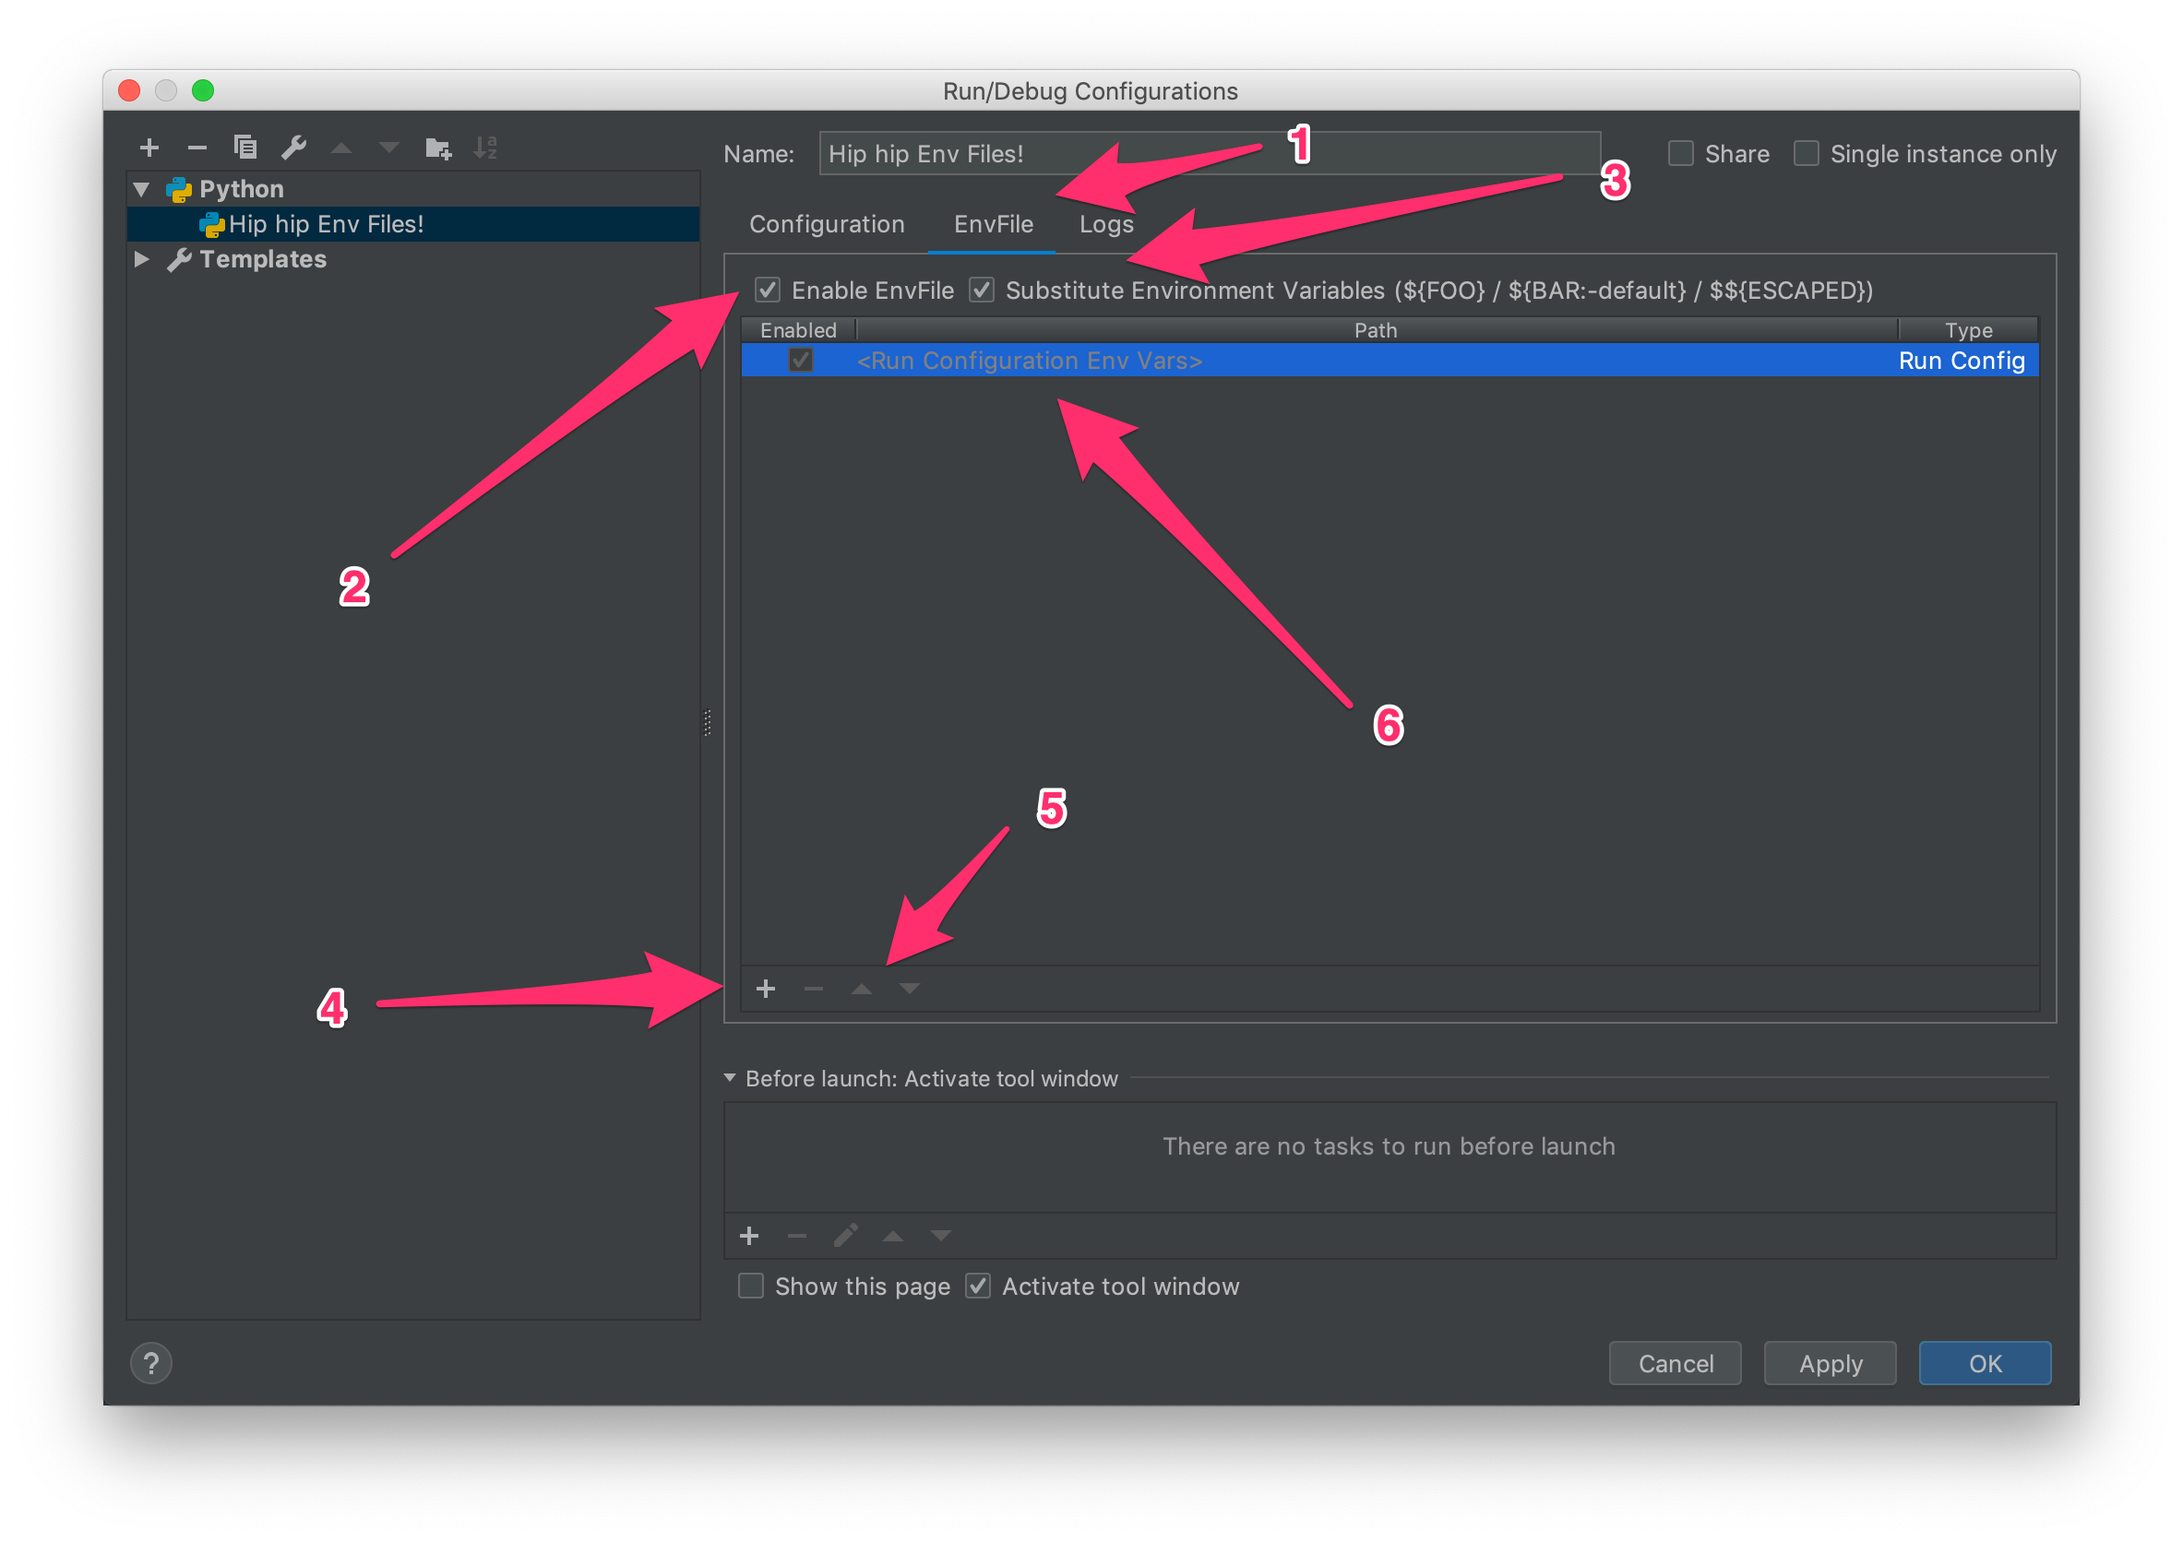
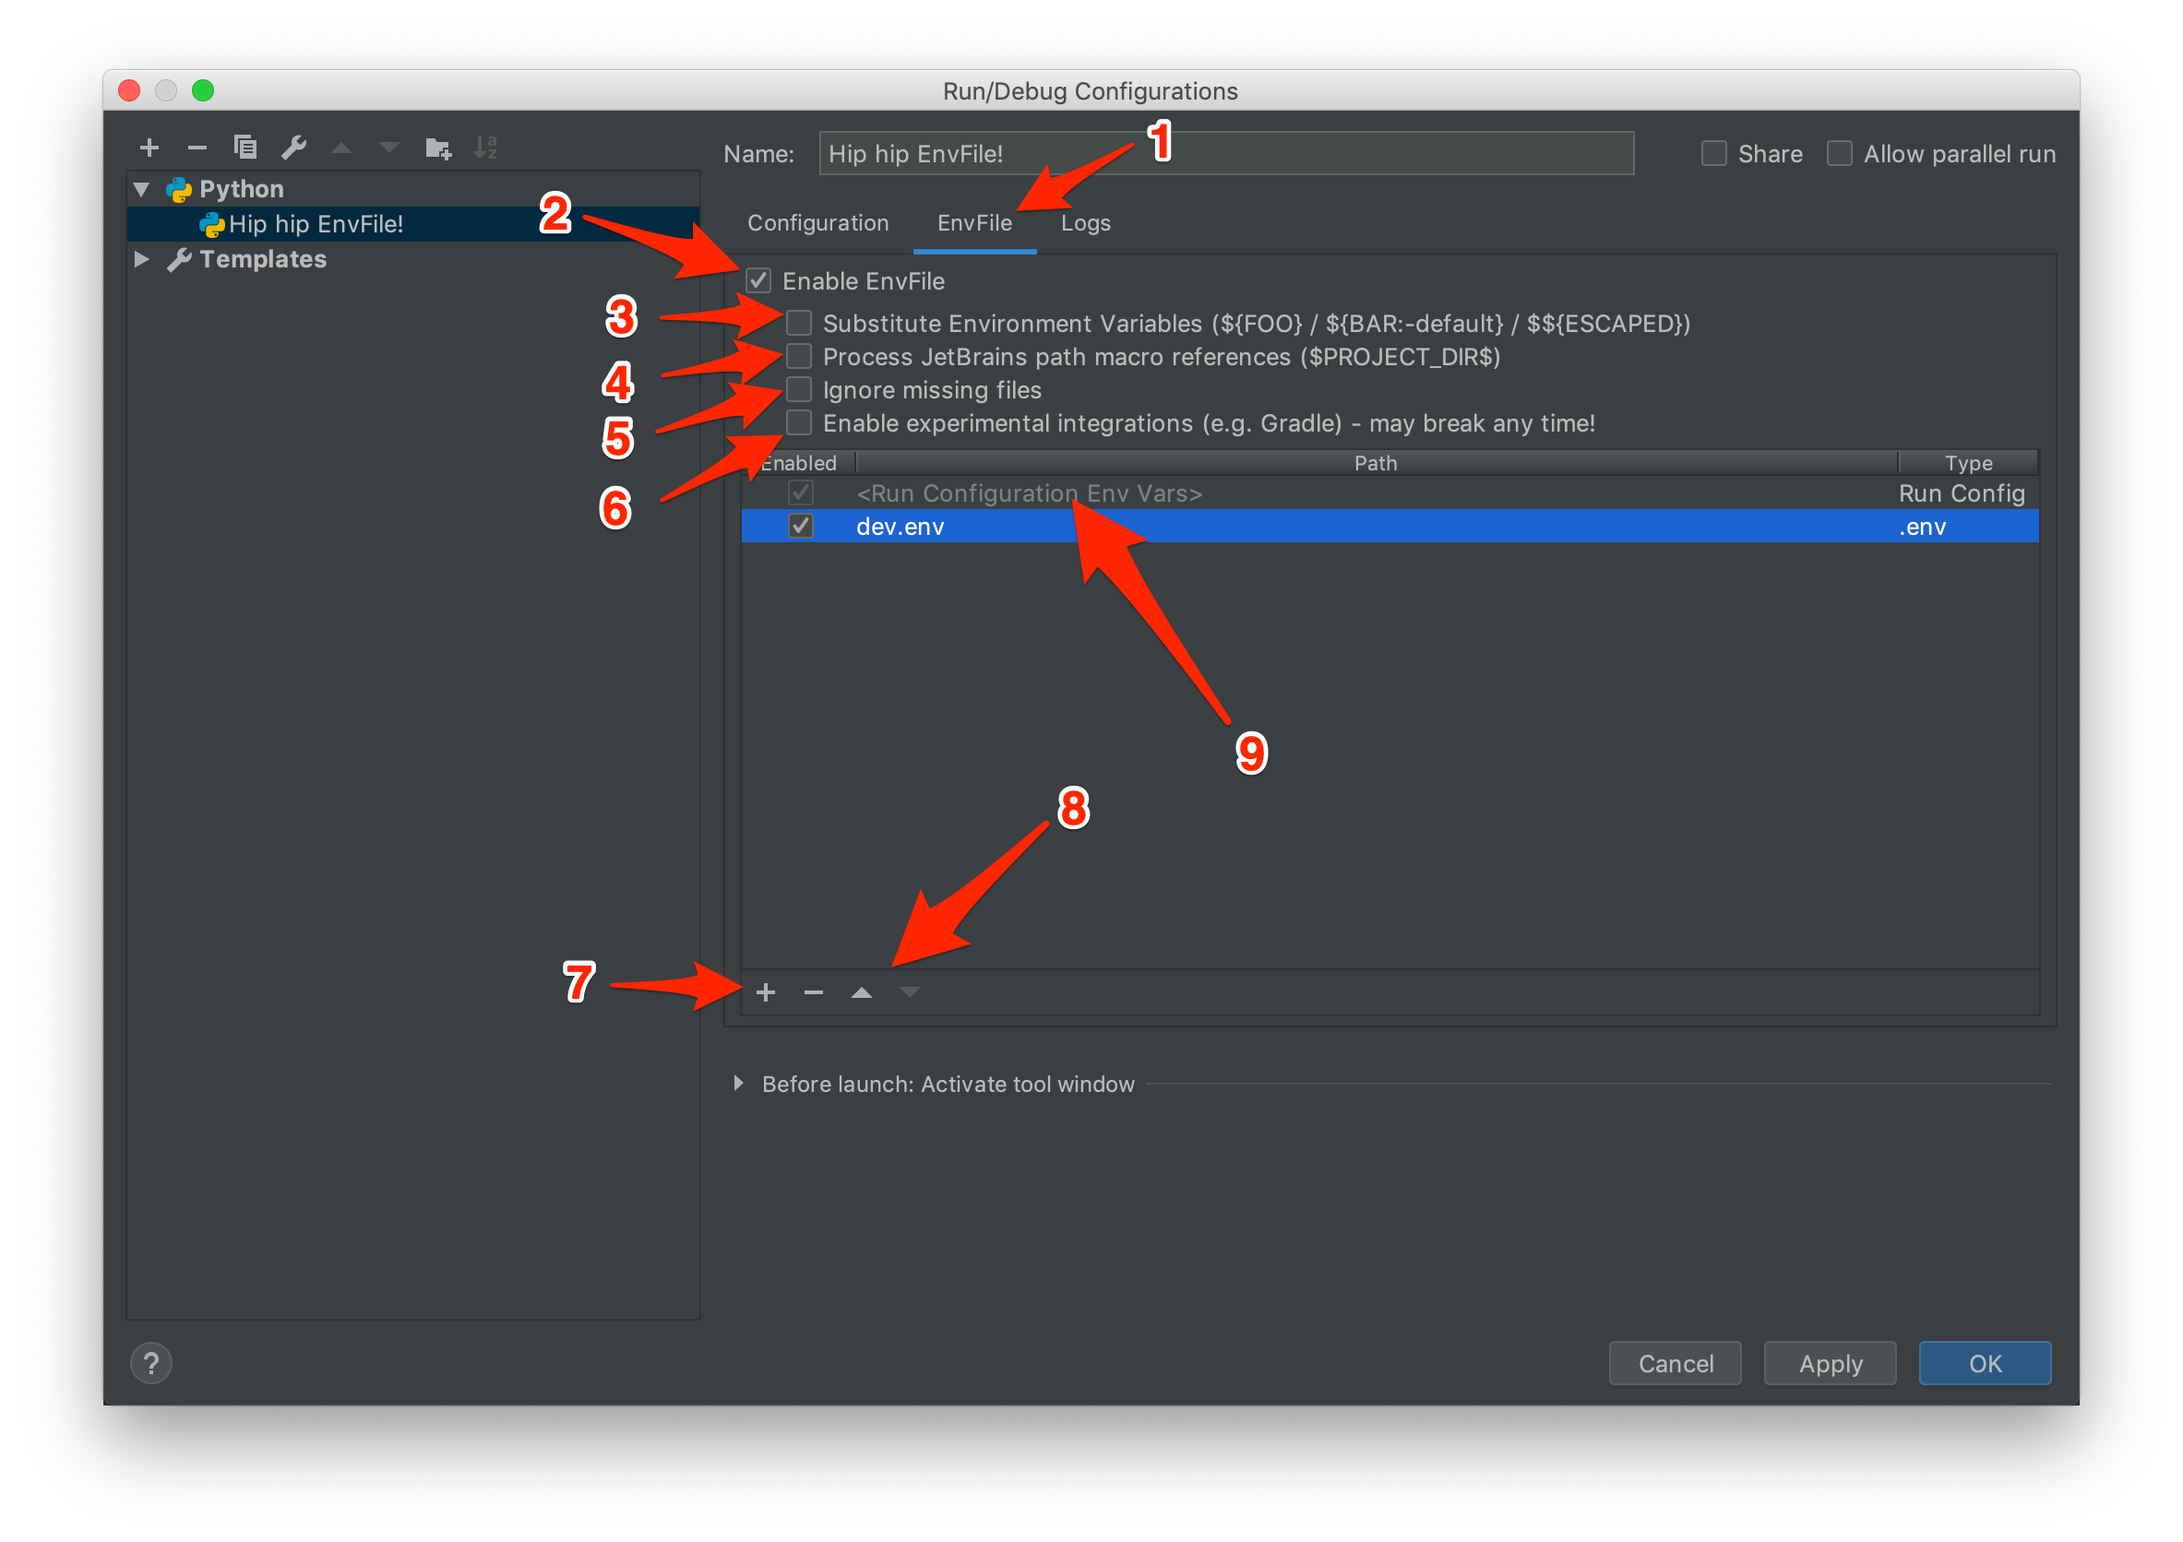
Experimental integration for external system run configurations
Fixes #38

diff --git a/modules/platform/src/main/java/net/ashald/envfile/platform/ui/EnvFileConfigurationEditor.java b/modules/platform/src/main/java/net/ashald/envfile/platform/ui/EnvFileConfigurationEditor.java
@@ -35,6 +35,7 @@ public class EnvFileConfigurationEditor<T extends RunConfigurationBase> extends 
     @NonNls private static final String FIELD_SUBSTITUTE_VARS = "IS_SUBST";
     @NonNls private static final String FIELD_PATH_MACRO_VARS = "IS_PATH_MACRO_SUPPORTED";
     @NonNls private static final String FIELD_IGNORE_MISSING = "IS_IGNORE_MISSING_FILES";
+    @NonNls private static final String FIELD_EXPERIMENTAL_INTEGRATIONS = "IS_ENABLE_EXPERIMENTAL_INTEGRATIONS";
     @NonNls private static final String FIELD_PATH = "PATH";
     @NonNls private static final String FIELD_PARSER = "PARSER";
 
@@ -80,6 +81,9 @@ public class EnvFileConfigurationEditor<T extends RunConfigurationBase> extends 
         String ignoreMissingStr = JDOMExternalizerUtil.readField(element, FIELD_IGNORE_MISSING, "false");
         boolean ignoreMissing = Boolean.parseBoolean(ignoreMissingStr);
 
+        String experimentalIntegrationsStr = JDOMExternalizerUtil.readField(element, FIELD_EXPERIMENTAL_INTEGRATIONS, "false");
+        boolean experimentalIntegrations = Boolean.parseBoolean(experimentalIntegrationsStr);
+
         List<EnvFileEntry> entries = new ArrayList<EnvFileEntry>();
 
         final Element entriesElement = element.getChild(ELEMENT_ENTRY_LIST);
@@ -110,7 +114,7 @@ public class EnvFileConfigurationEditor<T extends RunConfigurationBase> extends 
         }
         // For a while to migrate old users - end
 
-        EnvFileSettings state = new EnvFileSettings(isEnabled, envVarsSubstEnabled, pathMacroSupported, entries, ignoreMissing);
+        EnvFileSettings state = new EnvFileSettings(isEnabled, envVarsSubstEnabled, pathMacroSupported, entries, ignoreMissing, experimentalIntegrations);
         configuration.putUserData(USER_DATA_KEY, state);
     }
 
@@ -121,6 +125,7 @@ public class EnvFileConfigurationEditor<T extends RunConfigurationBase> extends 
             JDOMExternalizerUtil.writeField(element, FIELD_SUBSTITUTE_VARS, Boolean.toString(state.isSubstituteEnvVarsEnabled()));
             JDOMExternalizerUtil.writeField(element, FIELD_PATH_MACRO_VARS, Boolean.toString(state.isPathMacroSupported()));
             JDOMExternalizerUtil.writeField(element, FIELD_IGNORE_MISSING, Boolean.toString(state.isIgnoreMissing()));
+            JDOMExternalizerUtil.writeField(element, FIELD_EXPERIMENTAL_INTEGRATIONS, Boolean.toString(state.isEnableExperimentalIntegrations()));
 
             final Element entriesElement = new Element(ELEMENT_ENTRY_LIST);
             for (EnvFileEntry entry : state.getEntries()) {
@@ -174,6 +179,11 @@ public class EnvFileConfigurationEditor<T extends RunConfigurationBase> extends 
                 }
             }
         }
+    }
+
+    public static boolean isEnableExperimentalIntegrations(@NotNull RunConfigurationBase configuration) {
+        EnvFileSettings state = configuration.getUserData(USER_DATA_KEY);
+        return state != null && state.isEnableExperimentalIntegrations();
     }
 
     @NotNull

diff --git a/modules/platform/src/main/java/net/ashald/envfile/platform/ui/EnvFileConfigurationPanel.java b/modules/platform/src/main/java/net/ashald/envfile/platform/ui/EnvFileConfigurationPanel.java
@@ -44,6 +44,7 @@ class EnvFileConfigurationPanel<T extends RunConfigurationBase> extends JPanel {
     private final JCheckBox substituteEnvVarsCheckBox;
     private final JCheckBox supportPathMacroCheckBox;
     private final JCheckBox ignoreMissingCheckBox;
+    private final JCheckBox experimentalIntegrationsCheckBox;
     private final ListTableModel<EnvFileEntry> envFilesModel;
     private final TableView<EnvFileEntry> envFilesTable;
 
@@ -86,6 +87,7 @@ class EnvFileConfigurationPanel<T extends RunConfigurationBase> extends JPanel {
         substituteEnvVarsCheckBox.addActionListener(e -> envFilesModel.getItems().forEach(envFileEntry -> envFileEntry.setSubstitutionEnabled(substituteEnvVarsCheckBox.isSelected())));
         supportPathMacroCheckBox = new JCheckBox("Process JetBrains path macro references ($PROJECT_DIR$)");
         ignoreMissingCheckBox = new JCheckBox("Ignore missing files");
+        experimentalIntegrationsCheckBox = new JCheckBox("Enable experimental integrations (e.g. Gradle) - may break any time!");
 
         // TODO: come up with a generic approach for this
         envFilesModel.addRow(new EnvFileEntry(runConfig, "runconfig", null, true, substituteEnvVarsCheckBox.isSelected()));
@@ -131,6 +133,7 @@ class EnvFileConfigurationPanel<T extends RunConfigurationBase> extends JPanel {
         optionsPanel.add(substituteEnvVarsCheckBox);
         optionsPanel.add(supportPathMacroCheckBox);
         optionsPanel.add(ignoreMissingCheckBox);
+        optionsPanel.add(experimentalIntegrationsCheckBox);
 
         // Compose UI
         JPanel checkboxPanel = new JPanel();
@@ -250,7 +253,8 @@ class EnvFileConfigurationPanel<T extends RunConfigurationBase> extends JPanel {
                 substituteEnvVarsCheckBox.isSelected(),
                 supportPathMacroCheckBox.isSelected(),
                 envFilesModel.getItems(),
-                ignoreMissingCheckBox.isSelected()
+                ignoreMissingCheckBox.isSelected(),
+                experimentalIntegrationsCheckBox.isSelected()
         );
     }
 
@@ -259,11 +263,13 @@ class EnvFileConfigurationPanel<T extends RunConfigurationBase> extends JPanel {
         substituteEnvVarsCheckBox.setSelected(state.isSubstituteEnvVarsEnabled());
         supportPathMacroCheckBox.setSelected(state.isPathMacroSupported());
         ignoreMissingCheckBox.setSelected(state.isIgnoreMissing());
+        experimentalIntegrationsCheckBox.setSelected(state.isEnableExperimentalIntegrations());
 
         envFilesTable.setEnabled(state.isEnabled());
         substituteEnvVarsCheckBox.setEnabled(state.isEnabled());
         supportPathMacroCheckBox.setEnabled(state.isEnabled());
         ignoreMissingCheckBox.setEnabled(state.isEnabled());
+        experimentalIntegrationsCheckBox.setEnabled(state.isEnabled());
 
         envFilesModel.setItems(new ArrayList<>(state.getEntries()));
     }

diff --git a/modules/products/idea/src/main/java/net/ashald/envfile/products/idea/IdeaRunConfigurationExtension.java b/modules/products/idea/src/main/java/net/ashald/envfile/products/idea/IdeaRunConfigurationExtension.java
@@ -6,11 +6,12 @@ import com.intellij.execution.configurations.GeneralCommandLine;
 import com.intellij.execution.configurations.JavaParameters;
 import com.intellij.execution.configurations.RunConfigurationBase;
 import com.intellij.execution.configurations.RunnerSettings;
+import com.intellij.openapi.externalSystem.service.execution.ExternalSystemRunConfiguration;
 import com.intellij.openapi.options.SettingsEditor;
-import com.intellij.openapi.projectRoots.JdkUtil;
 import com.intellij.openapi.util.InvalidDataException;
 import com.intellij.openapi.util.WriteExternalException;
 import net.ashald.envfile.platform.ui.EnvFileConfigurationEditor;
+import net.ashald.envfile.utils.ReadOnceMap;
 import org.jdom.Element;
 import org.jetbrains.annotations.NotNull;
 import org.jetbrains.annotations.Nullable;
@@ -72,6 +73,17 @@ public class IdeaRunConfigurationExtension extends RunConfigurationExtension {
         // there is a chance that env is an immutable map,
         // that is why it is safer to replace it instead of updating it
         params.setEnv(newEnv);
+
+        // The code below works based on assumptions about internal implementation of
+        // ExternalSystemExecuteTaskTask and ExternalSystemExecutionSettings and therefore may break any time may it change
+        // It seems to be the only way to get things working for run configurations such as Gradle, at least for now
+        if (EnvFileConfigurationEditor.isEnableExperimentalIntegrations(configuration)) {
+            if (configuration instanceof ExternalSystemRunConfiguration) {
+                ExternalSystemRunConfiguration ext = (ExternalSystemRunConfiguration) configuration;
+
+                ext.getSettings().setEnv(new ReadOnceMap<>(newEnv, ext.getSettings().getEnv()));
+            }
+        }
     }
 
     //

diff --git a/modules/platform/src/main/java/net/ashald/envfile/platform/EnvFileSettings.java b/modules/platform/src/main/java/net/ashald/envfile/platform/EnvFileSettings.java
@@ -9,14 +9,23 @@ public class EnvFileSettings {
     private final boolean envVarsSubstitutionEnabled;
     private final boolean pathMacroSupported;
     private final boolean ignoreMissing;
+    private final boolean enableExperimentalIntegrations;
     private final List<EnvFileEntry> entries;
 
-    public EnvFileSettings(boolean isEnabled, boolean substituteVars, boolean pathMacroSupported, List<EnvFileEntry> envFileEntries, boolean ignoreMissing) {
+    public EnvFileSettings(
+            boolean isEnabled,
+            boolean substituteVars,
+            boolean pathMacroSupported,
+            List<EnvFileEntry> envFileEntries,
+            boolean ignoreMissing,
+            boolean experimentalInegrations
+    ) {
         pluginEnabled = isEnabled;
         envVarsSubstitutionEnabled = substituteVars;
         this.pathMacroSupported = pathMacroSupported;
         this.ignoreMissing = ignoreMissing;
         entries = envFileEntries;
+        enableExperimentalIntegrations = experimentalInegrations;
     }
 
     public boolean isEnabled() {
@@ -33,6 +42,10 @@ public class EnvFileSettings {
 
     public boolean isIgnoreMissing() {
         return ignoreMissing;
+    }
+
+    public boolean isEnableExperimentalIntegrations() {
+        return enableExperimentalIntegrations;
     }
 
     public List<EnvFileEntry> getEntries() {

diff --git a/modules/core/src/main/java/net/ashald/envfile/utils/ReadOnceMap.java b/modules/core/src/main/java/net/ashald/envfile/utils/ReadOnceMap.java
@@ -1,0 +1,41 @@
+package net.ashald.envfile.utils;
+
+import java.util.*;
+
+public class ReadOnceMap<K, V> extends AbstractMap<K, V> implements Map<K, V> {
+
+    private Map<K, V> firstRead;
+    private Map<K, V> otherReads;
+
+    private boolean wasRead = false;
+
+    public ReadOnceMap(Map<K, V> first, Map<K, V> rest) {
+        firstRead = first;
+        otherReads = rest;
+    }
+
+    @Override
+    public int size() {
+        return getSource(false).size();
+    }
+
+    @Override
+    public Set<Entry<K, V>> entrySet() {
+        return getSource(true).entrySet();
+    }
+
+    private Map<K, V> getSource(boolean consume) {
+        Map<K ,V> source;
+        synchronized (this) {
+            if (wasRead) {
+                source = otherReads;
+            } else {
+                if (consume) {
+                    wasRead = true;
+                }
+                source = firstRead;
+            }
+        }
+        return source == null ? Collections.emptyMap() : source;
+    }
+}

diff --git a/README.md b/README.md
@@ -60,6 +60,7 @@ version of the product.
         <li><em>Arquillian TestNG</em></li>
         <li><em>CloudBees Server</em></li>
         <li><em>Cucumber Java</em></li>
+        <li>Gradle (requires "Enable Experimental Integrations")</li>
         <li><em>GWT Configuration</em></li>
         <li>
             <em>Geronimo Server</em>
@@ -202,18 +203,30 @@ Restart IDE.
 1) Switch to <kbd>EnvFile</kbd> tab
 2) Select <kbd>Enable EnvFile</kbd> checkbox
 3) Select <kbd>Substitute Environment Variables</kbd> checkbox (if needed)
-4) Click on <kbd>+</kbd> to add a file
-5) Adjust order as needed
+4) Select <kbd>Process JetBrains path macro references</kbd> checkbox (if needed)
+5) Select <kbd>Ignore missing files</kbd> checkbox (if needed)
+6) Select <kbd>Enable experimental integrations</kbd> checkbox (if needed)
+7) Click on <kbd>+</kbd> to add a file
+8) Adjust order as needed
 6) Even variables defined within run configuration can be processed, ordered and substituted 
 
 ![Read from file](./docs/example.png)
 
 ### Caveats
 
+#### Hidden files 
 Hidden files (starting with a dot) are not displayed in Finder on `macOS` by default. To toggle
 hidden files in the Open dialog, press <kbd>COMMAND</kbd> + <kbd>SHIFT</kbd> + <kbd>.</kbd>.
 Alternatively, one can either tweak `macOS` to show hidden files or select any file using
 standard Finder dialog and then manually edit path by double-clicking on the entry in the table.
+
+#### Experimental Integrations
+Not all run configurations available in IDEA-based IDEs are implemented similarly. Some of them differ significantly.
+In certain cases (so far, only `Gradle` has been confirmed) the implementation exposes interfaces to integrate the EnvFile UI
+but doesn't provide interfaces for it to actually make its work. Luckily, it was possible to make few assumptions about
+IDEA's internal implementation and make it work. Such integration is very fragile and it's not immediately clear if it
+will affect any existing integrations and when it will break. For that reason there is a special option to
+`Enable Experimental Integrations` that can be enabled when desired and should prevent other integrations from breaking. 
 
 ### Examples
 

diff --git a/CHANGELOG.md b/CHANGELOG.md
@@ -2,6 +2,12 @@
 All notable changes to this project will be documented in this file.
 This project adheres to [Semantic Versioning].
 
+## Unreleased
+
+### Added
+
+- Experimental integration for external system run configurations (such as Gradle) ([#38])
+
 ## 3.1.2 - 2019-05-21
 
 ### Fixed
@@ -40,7 +46,7 @@ This project adheres to [Semantic Versioning].
 
 ### Fixed
 
-- Unicode sequence handling in `.env` files [(#38)]
+- Unicode sequence handling in `.env` files [(#32)]
 - Backslash being removed from values in `.env` files ([#52]) 
 - White text on white background when `Light` theme is used ([#61])
 
@@ -97,6 +103,7 @@ This project adheres to [Semantic Versioning].
 - Initial Release
 
 [#16]: https://github.com/Ashald/EnvFile/issues/16
+[#38]: https://github.com/Ashald/EnvFile/issues/32
 [#38]: https://github.com/Ashald/EnvFile/issues/38
 [#52]: https://github.com/Ashald/EnvFile/issues/52
 [#61]: https://github.com/Ashald/EnvFile/issues/61
